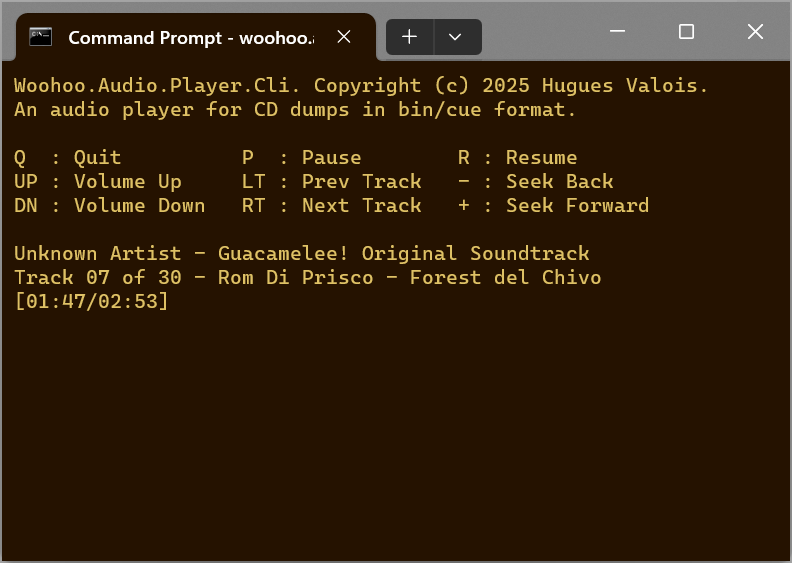
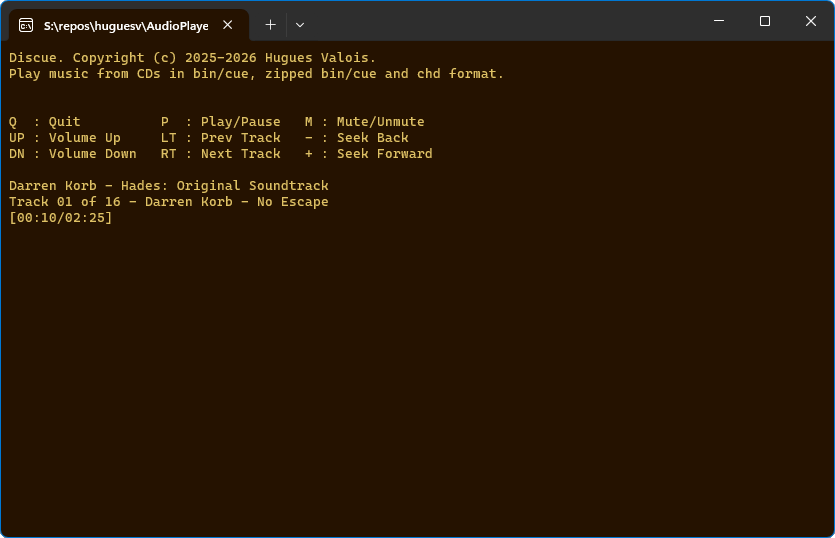
Update more windows screenshots.

diff --git a/SCREENSHOTS.md b/SCREENSHOTS.md
@@ -50,6 +50,20 @@ Linux - Light Theme
 
 ![Linux Light Amplitude](images/linux-light-amplitude.png?raw=true "Linux Light Amplitude")
 
+## Terminal UI Player
+
+![Terminal Meet Discue](images/consolonia-meet.png?raw=true "Terminal Meet Discue")
+
+![Terminal Home](images/consolonia-home.png?raw=true "Terminal Home")
+
+![Terminal Now Playing](images/consolonia-now.png?raw=true "Terminal Now Playing")
+
+![Terminal Visualization](images/consolonia-viz.png?raw=true "Terminal Visualization")
+
+![Terminal Lyrics](images/consolonia-lyrics.png?raw=true "Terminal Lyrics")
+
+![Terminal Playlist](images/consolonia-playlist.png?raw=true "Terminal Playlist")
+
 ## Console Player
 
 Windows Terminal

diff --git a/README.md b/README.md
@@ -36,7 +36,7 @@ Using a local LRCLIB sqlite3 database is also supported.
 
 ## Terminal UI Player
 
-![TUI Player on Windows Terminal](images/windows-tui.png?raw=true "TUI Player on Windows Terminal")
+![TUI Player on Windows Terminal](images/consolonia-now.png?raw=true "TUI Player on Windows Terminal")
 
 ## Console Player
 
